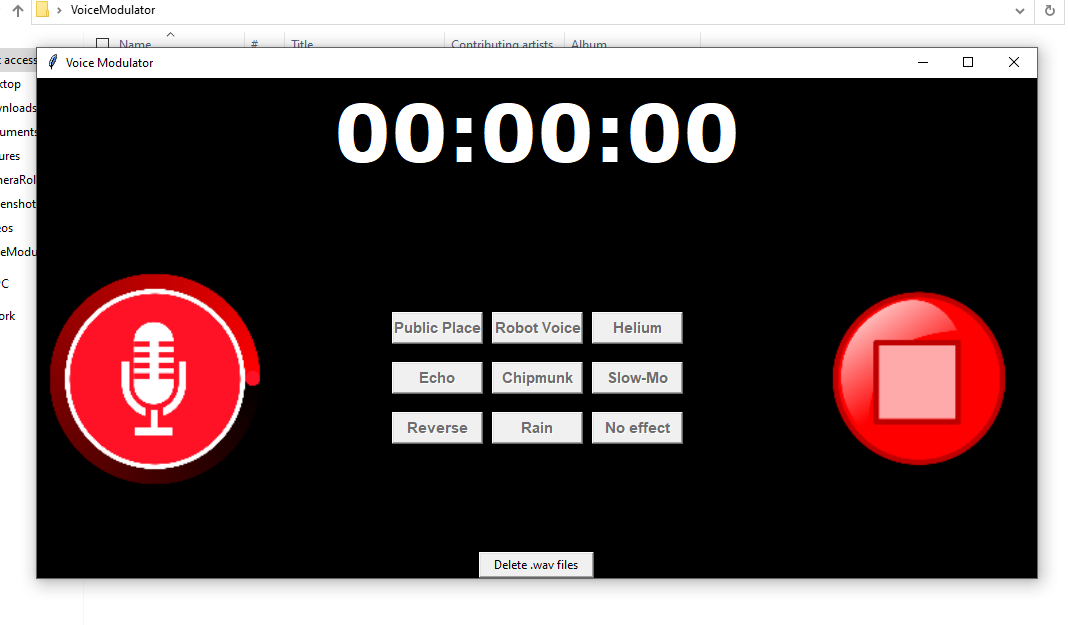
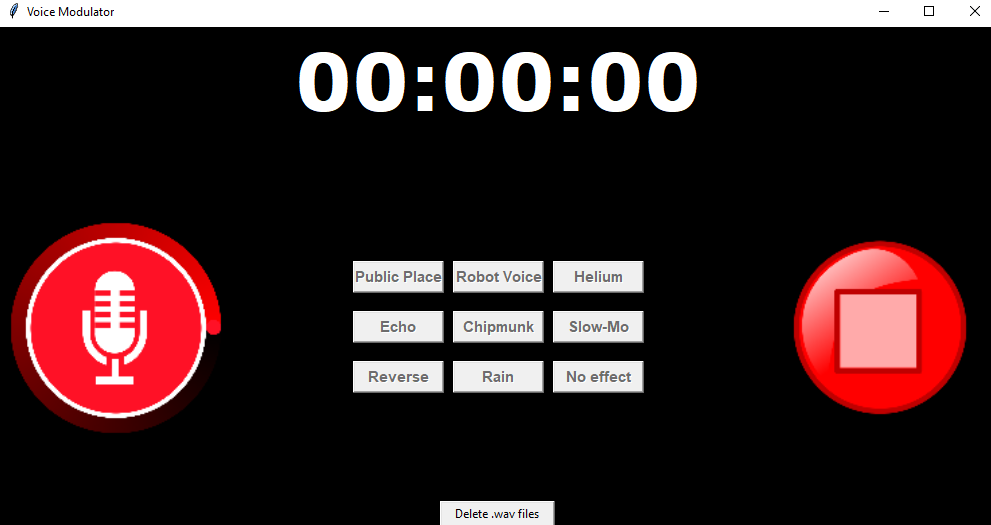
added voice modulator project to projects page

diff --git a/projects.html b/projects.html
@@ -49,6 +49,8 @@
         <a href="https://github.com/alexandralla/fitness-app.git"><img class="img-fluid" src="findgyms.png" alt="Find Gyms Near Me"></a>
         <label>Frupal</label>
         <a href="http://web.cecs.pdx.edu/~satvir/frupal.html"><img class="img-fluid" src="frupal.png" alt="Frupal"></a>
+        <label>Voice Modulator</label>
+        <a href="https://github.com/SatvirSinghPDX/VoiceModulator"><img class="img-fluid" src="voicemodulator.png" alt="Frupal"></a>
         <label><br />Billboard HOT-100 Dashboard</label>
         <a href="https://github.com/SatvirSinghPDX/music-charts"><img class="img-fluid" src="billboard.png"
                 alt="Billboard HOT-100"></a>
